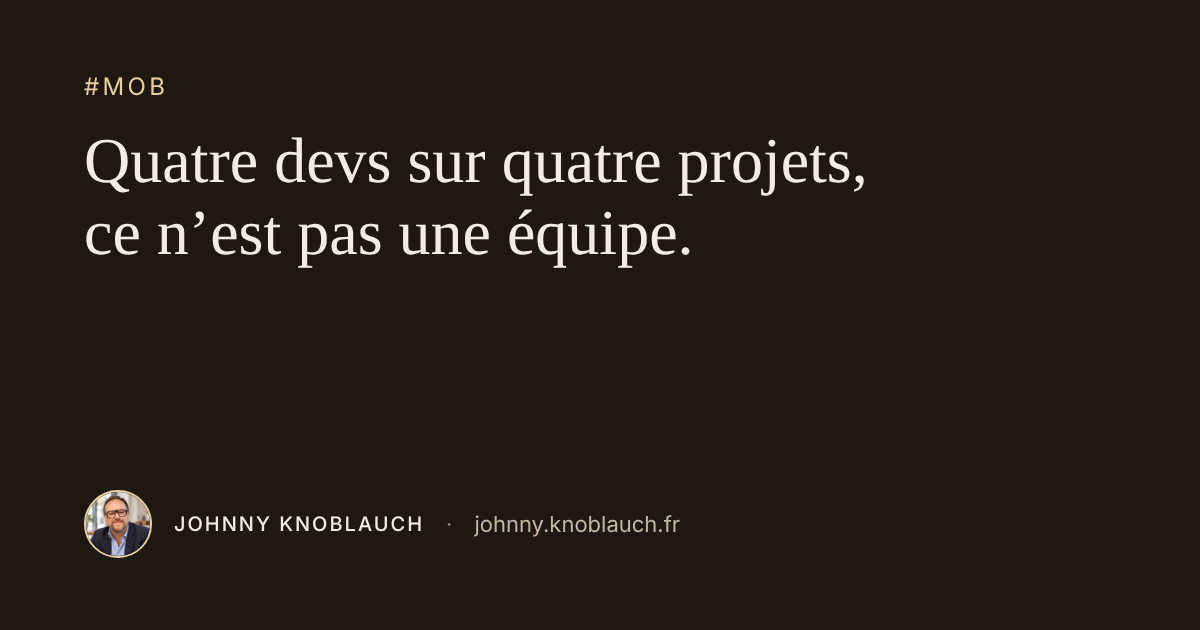
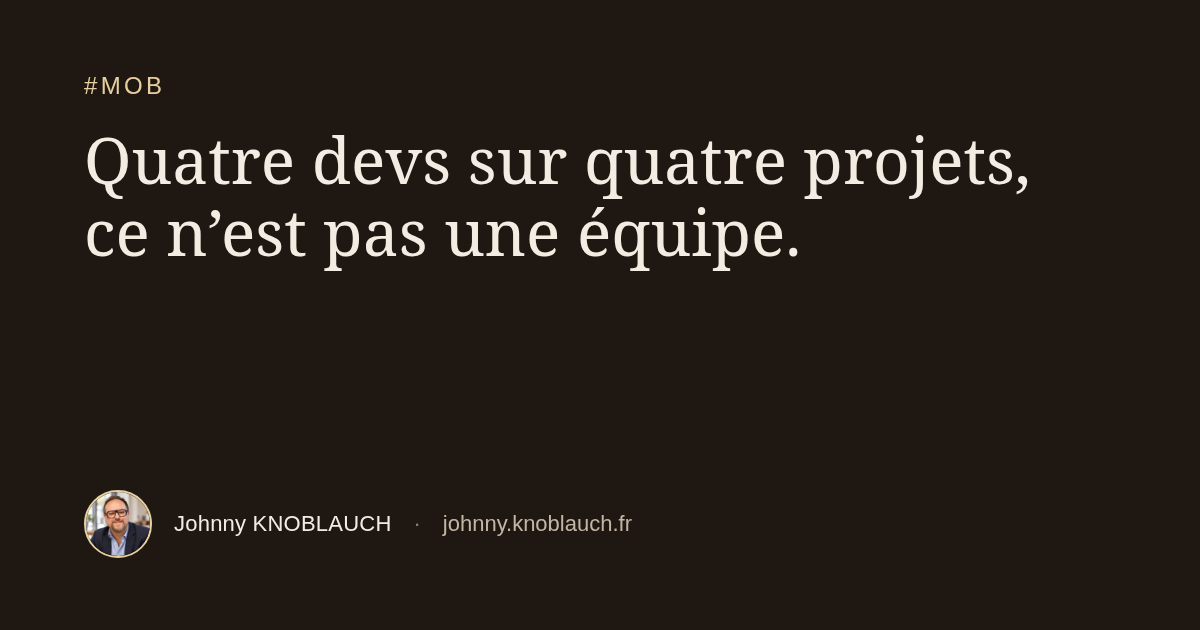
Ce que le Brésil m'a appris: first dated article; name not in capitals on share images
Claude-Session: https://claude.ai/code/session_012duHWB5GwUHyXVKN3ZQkfN

Changed region(s): [[0.0617, 0.2111, 0.8633, 0.4524], [0.1542, 0.8143, 0.5858, 0.8444], [0.0617, 0.1206, 0.1542, 0.1508]]

diff --git a/tools/og/og.html b/tools/og/og.html
@@ -8,7 +8,7 @@
   .veil { position: absolute; inset: 0; background: linear-gradient(90deg, rgba(31,24,18,0.55), rgba(31,24,18,0.92) 45%, rgba(31,24,18,0.97)); }
   .card { position: absolute; inset: 0; display: flex; align-items: center; gap: 56px; padding: 0 84px; }
   img { width: 250px; height: 250px; border-radius: 50%; border: 5px solid #f3ece2; flex: none; }
-  .name { font-family: system-ui, -apple-system, 'Segoe UI', Roboto, 'Liberation Sans', Arial, sans-serif; font-size: 26px; letter-spacing: 0.14em; text-transform: uppercase; margin: 0 0 10px; }
+  .name { font-family: system-ui, -apple-system, 'Segoe UI', Roboto, 'Liberation Sans', Arial, sans-serif; font-size: 26px; letter-spacing: 0.14em;  margin: 0 0 10px; }
   .kicker { font-family: system-ui, -apple-system, 'Segoe UI', Roboto, 'Liberation Sans', Arial, sans-serif; color: #b4c8e8; font-size: 24px; margin: 0 0 22px; padding-bottom: 16px; position: relative; }
   .kicker::after { content: ''; position: absolute; left: 0; bottom: 0; width: 64px; border-bottom: 2px solid #b4c8e8; }
   .line { font-size: 62px; line-height: 1.12; margin: 0; }

diff --git a/tools/og/og-note.html b/tools/og/og-note.html
@@ -9,7 +9,7 @@
   .title { font-size: 64px; line-height: 1.12; margin: 24px 0 0; max-width: 1000px; text-wrap: balance; }
   .foot { display: flex; align-items: center; gap: 22px; font-family: system-ui, -apple-system, 'Segoe UI', Roboto, 'Liberation Sans', Arial, sans-serif; color: #c3b6a5; font-size: 22px; }
   .foot img { width: 64px; height: 64px; border-radius: 50%; border: 2px solid #e8cf9f; }
-  .foot b { color: #f3ece2; font-weight: 500; letter-spacing: 0.1em; text-transform: uppercase; font-size: 20px; }
+  .foot b { color: #f3ece2; font-weight: 500; letter-spacing: 0.01em; font-size: 22px; }
   .foot span { color: #8f8272; }
 </style></head>
 <body>

diff --git a/src/content/idees/fr/bresil.md b/src/content/idees/fr/bresil.md
@@ -1,0 +1,74 @@
+---
+title: "Ce que le Brésil m’a appris"
+description: "Un audit, une fusion, un framework trop malin : la compréhension partagée compte plus que la brillance technique."
+kind: article
+permalink: "ce-que-le-bresil-m-a-appris"
+date: 2026-11-03
+tags: ["équipes"]
+---
+
+J’avais la vingtaine, et je n’avais pas envie d’aller au Brésil. Travel Technology Interactive prévoyait d’acheter une entreprise là-bas, et j’ai dû conduire l’audit technologique.
+
+Sur place, j’ai rencontré des gens très accueillants.
+
+## L’audit
+
+Leur entreprise était plus ancienne que la nôtre, et une partie du produit tournait encore en VB6 avec du COM+. À chaque livraison, toute l’équipe technique passait le week-end à réinstaller les composants sur chaque serveur. Pendant ce temps, le service de la compagnie aérienne cliente était arrêté.
+
+Nous étions connectés aux grands systèmes de réservation, comme Amadeus, Sabre ou Galileo ; eux non. Leur produit était taillé pour le marché brésilien et sa comptabilité. L’entreprise fonctionnait bien ; il lui manquait l’international. Travel Technology Interactive l’a rachetée.
+
+## Le choc
+
+En France, je confiais un sujet à un développeur, et il le menait de la spécification jusqu’à la mise en production. Seul.
+
+Au Brésil, on travaillait par groupes de quatre.
+
+Je sortais d’une réunion de présentation avec beaucoup de « oui », et je découvrais ensuite que personne n’avait vraiment compris. Pour eux, la compréhension venait après, et le travail repartait de zéro. Chez nous, on attaquait juste après.
+
+J’avais l’habitude d’interlocuteurs qui disent « je n’ai pas compris » ou remettent les choses en question. Là, ils acceptaient tout. J’y vois un mélange : la culpabilité de ne pas savoir, ne pas oser le dire, la culture. Et pas seulement : d’un coup, des personnes leur donnaient des projets ; ils étaient potentiellement mal à l’aise, pas habitués à ce contexte. C’est comme ça que je vois les choses.
+
+J’ai d’abord voulu travailler comme en France, un sujet par développeur. Le développeur saturait : il n’avait pas l’habitude de porter seul autant de responsabilités.
+
+Plus grande que notre start-up, leur entreprise avait sur nous une avance en management que je ne voyais pas. Sur le papier, des coordinateurs ; dans les faits, des managers à la très grande autorité. Les développeurs avaient envie de bien faire, mais ils attendaient qu’on leur dise quoi faire, et avaient peur de mal faire.
+
+J’ai beaucoup aimé la vie de l’entreprise : une cantine où l’on voyait les mamas préparer le même repas pour tout le monde, une piscine, un anniversaire fêté chaque mois.
+
+## La fusion
+
+Quand on a décidé de fusionner les deux produits, les développeurs brésiliens ont eu peur qu’on leur prenne leur travail. Et intégrer leur modèle de données au nôtre n’était pas simple. Quand certains ont tenté leurs propres approches, la comparaison a créé des tensions, dures à vivre pour eux.
+
+Notre produit avait aussi un défaut : à l’intérieur, il ne suivait pas les standards, à commencer par la norme IATA, et il était difficile à relier aux systèmes qui les suivaient. Deux options : patcher l’existant pour le rendre compatible, ou repartir d’une page neuve, une nouvelle version qui respecte les standards dès sa conception.
+
+On a choisi la page neuve. Elle a aussi permis à l’équipe brésilienne, en construisant cette version avec nous, de s’approprier le produit et notre manière de travailler. Petit à petit, les équipes ont été plus à l’aise.
+
+Le reste n’a pas été simple : décalage horaire, mails dans une langue que personne ne maîtrisait, procédures à écrire, nous qui faisions beaucoup à l’oral.
+
+## Le framework dont je ne suis pas fier
+
+Notre framework maison, une surcouche de .NET, demandait des compétences pointues et une formation que les développeurs n’avaient pas envie de suivre.
+
+Il permettait d’écrire du code sans l’écrire (programmation orientée aspect, AOP). Pour qu’une méthode note dans un journal son entrée et sa sortie, on n’écrivait rien : on posait dessus une étiquette « log », et ça se faisait tout seul. C’était à la mode et ça nous plaisait. Mais cette magie n’est pas une bonne chose : difficile à déboguer, difficile à coder sans connaître les étiquettes par cœur.
+
+On n’avait pas recréé la roue : on avait créé quelque chose de trop compliqué pour une équipe aussi vaste, aux niveaux aussi différents.
+
+Plus tard, une formation avec Greg Young m’a fait revoir ce choix. Je regrette d’être allé dans cette direction. Mais ça forme.
+
+De leur côté, beaucoup de copier-coller, et un modèle très explicite, tout en portugais, que je lisais mal. Du nôtre, une grosse dette technique non traitée, et des parties écrites en français, qui auraient posé problème à l’équipe brésilienne.
+
+## Ce qui m’a manqué
+
+J’étais jeune, je manquais de recul et de sagesse. Je n’avais pas été formé pour ça, ni suivi par un coach. J’ai vécu des moments humainement difficiles, et je pense que les personnes autour de moi aussi.
+
+## Ce que j’en retiens aujourd’hui
+
+Ce qui a fait avancer la fusion, ce n’est pas notre avance technique : nous avions nous aussi notre dette. C’est le moment où l’équipe brésilienne a construit avec nous la nouvelle version du produit. La compréhension partagée passe avant la brillance technique.
+
+Depuis, je m’appuie toujours sur des standards plutôt que d’inventer mon propre modèle. Pas en traduisant mon modèle pour l’extérieur : c’est le produit lui-même qui est standard, ce qui crée de la valeur et un avantage compétitif. Ça ouvre des portes, ça anticipe des problèmes qu’on ne voit pas encore, ça aide à mieux nommer et articuler le produit. Et on évite de payer la conversion plus tard.
+
+C’est aussi une question d’organisation : au rachat, faute de standards dans notre produit, il a fallu choisir entre le patcher et le reconstruire. Ne pas respecter un standard dès le départ, pour moi, c’est une erreur de conception.
+
+Jusqu’à l’arrivée de l’IA, un framework maison épargnait aux développeurs de construire et de tester des briques complexes. Aujourd’hui, l’IA écrit ces bibliothèques, et centraliser la complexité dans un framework que toute l’équipe doit apprendre n’est plus aussi vital. Ce qui le reste : que tout le monde [comprenne la même chose en sortant de la réunion](/idees/petites-equipes/).
+
+La dernière fois que votre équipe a dit « oui » en réunion, qu’est-ce qui vous a montré qu’elle avait vraiment compris ?
+
+Si vous préférez répondre en privé : johnny@knoblauch.fr.
